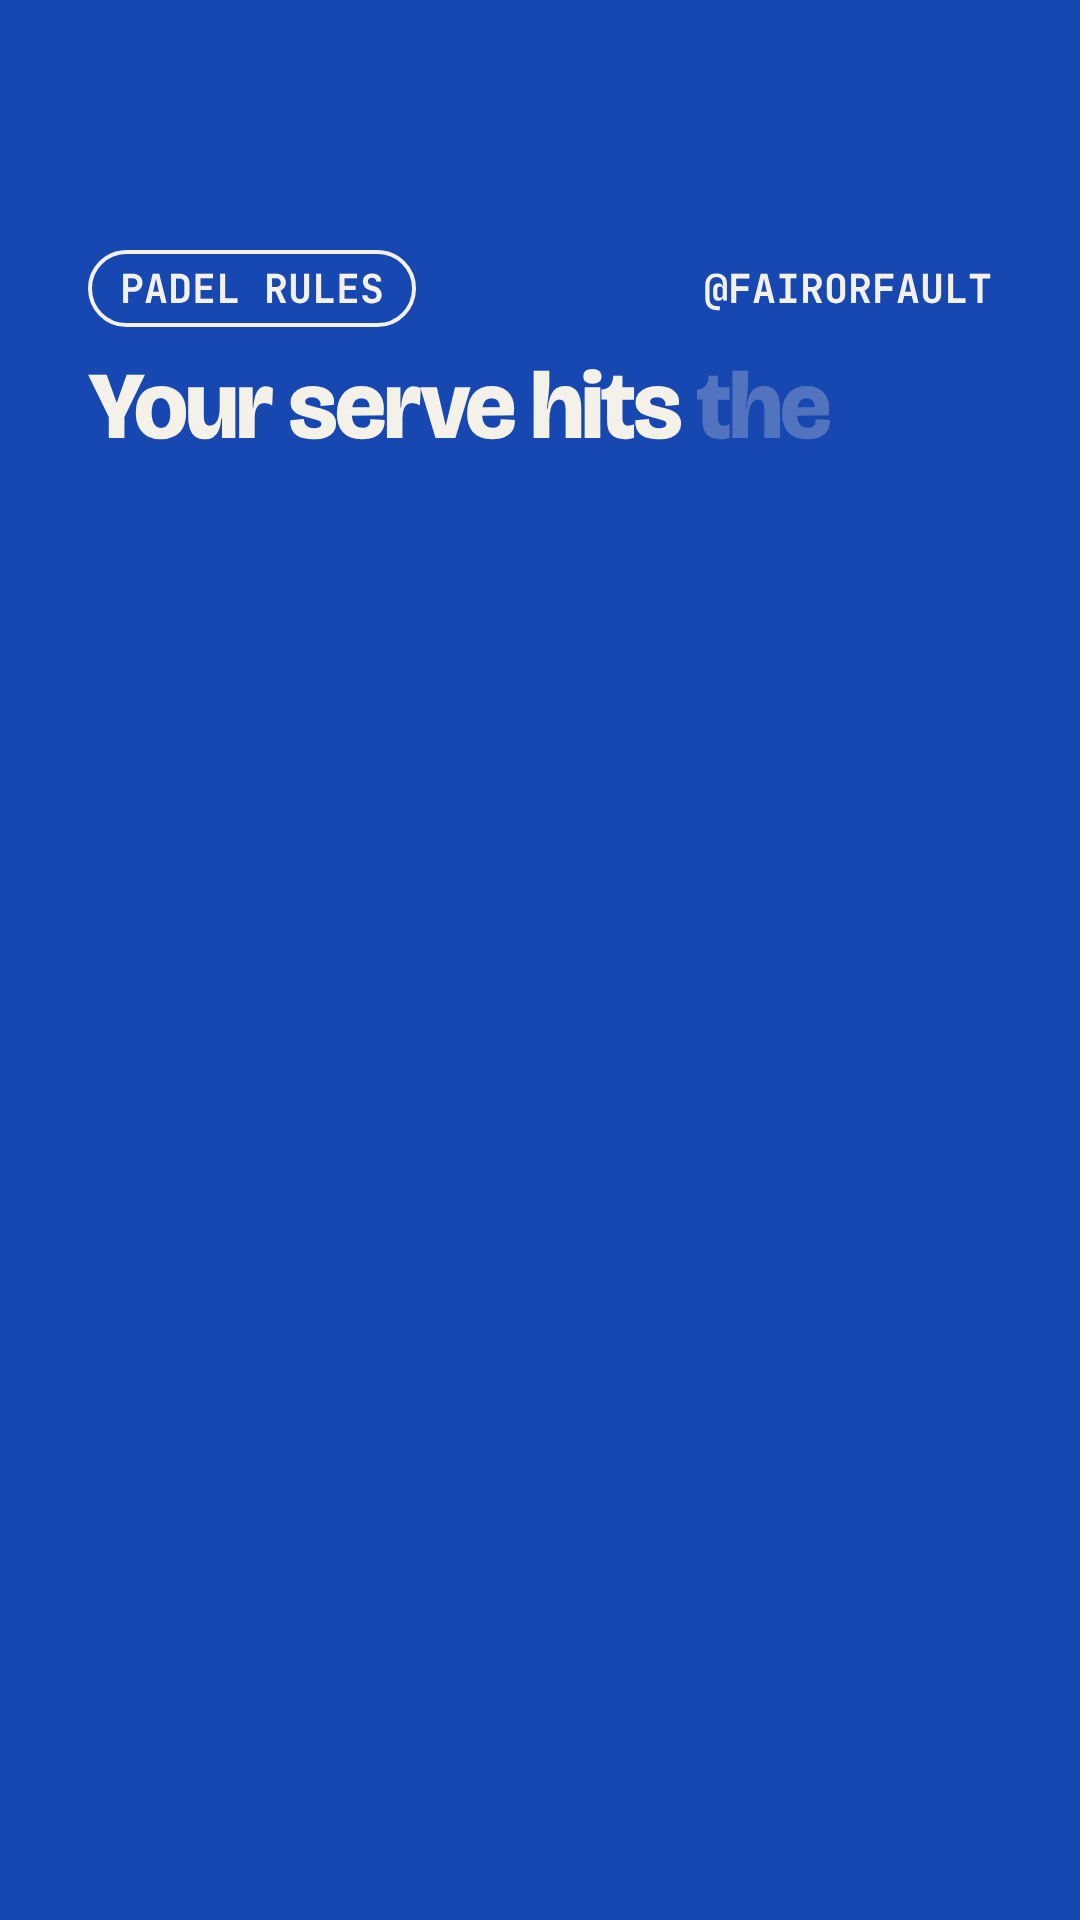
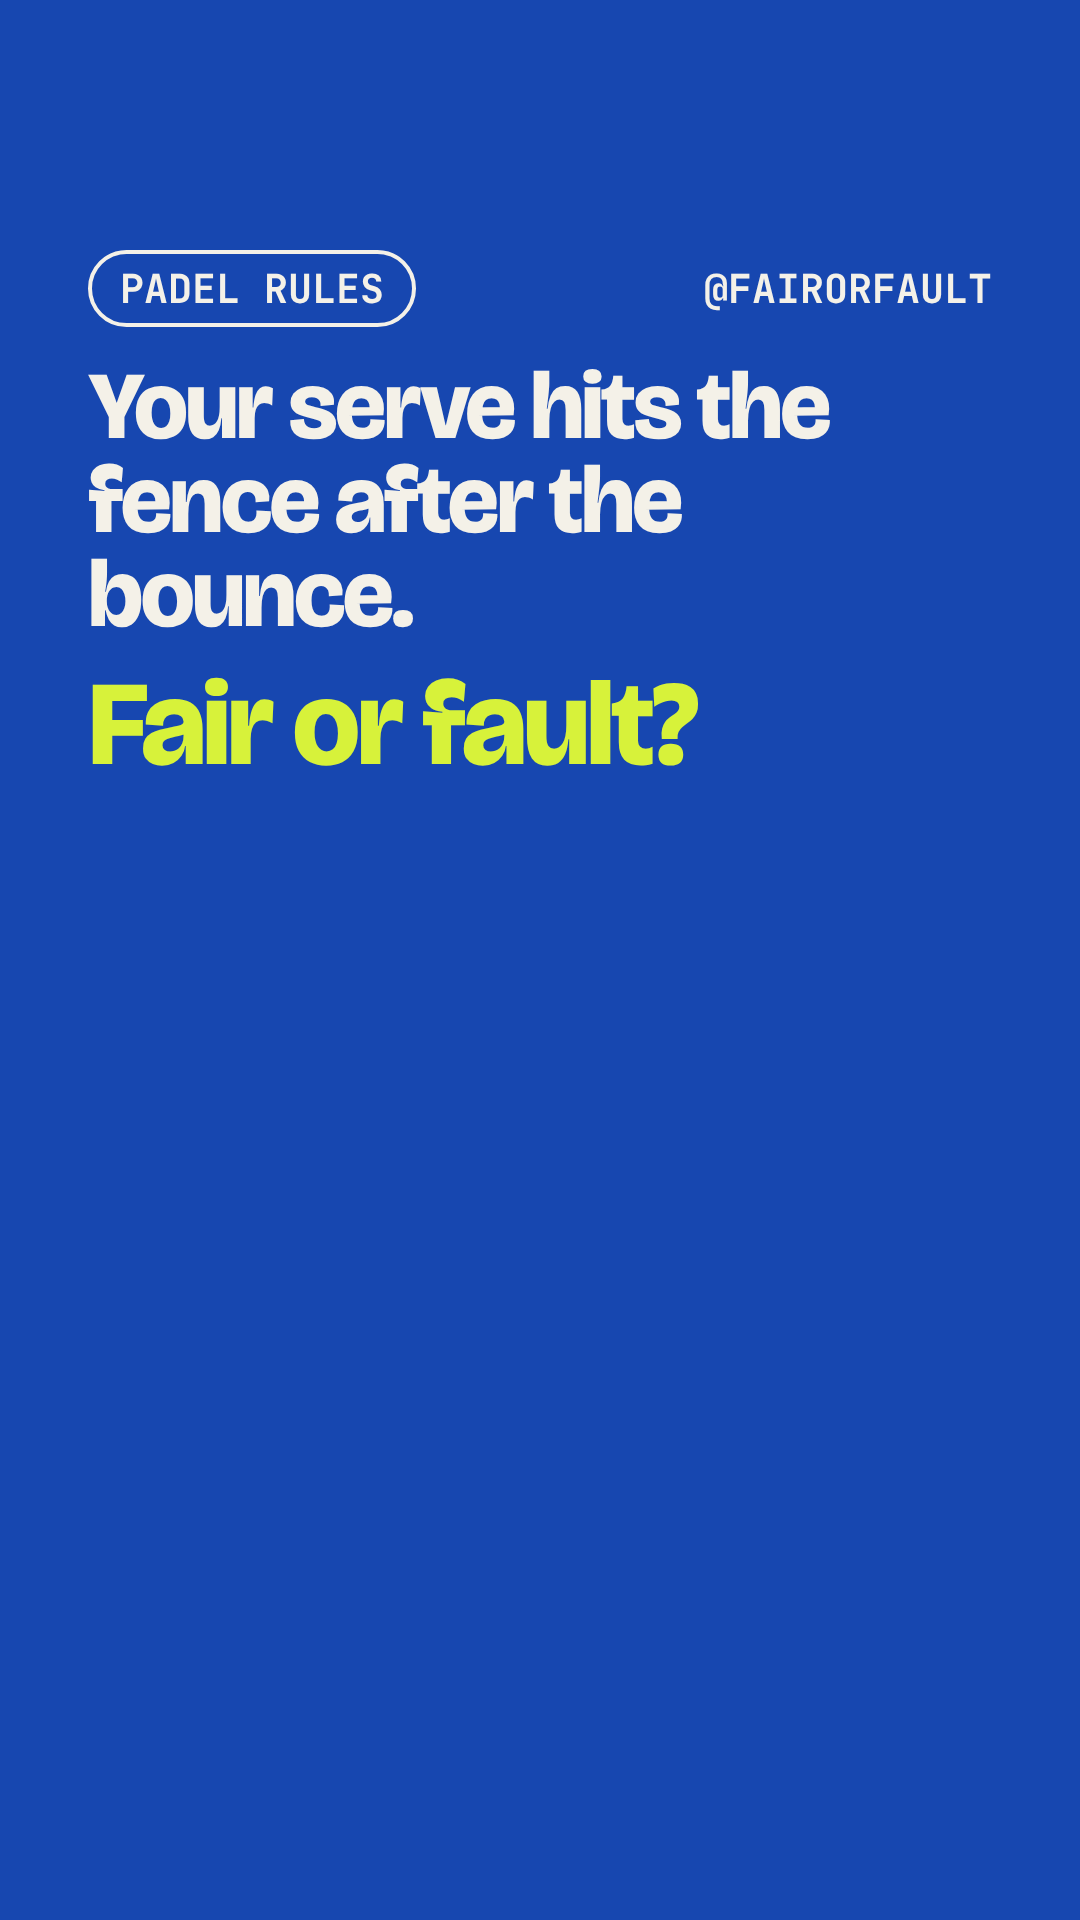
Reel cover shows the full question
Claude-Session: https://claude.ai/code/session_01QkVtpd5pUHv7AHrWCFBuCg

Changed region(s): [[0.0611, 0.2188, 0.6417, 0.4062], [0.6417, 0.1875, 0.7639, 0.25]]

diff --git a/engine/reel.py b/engine/reel.py
@@ -170,7 +170,7 @@ async def render(spec, out):
             for f in range(frames):
                 await pg.evaluate(f"setT({f/FPS})")
                 await pg.screenshot(path=str(tmp / f"f{f:04d}.png"))
-            await pg.evaluate("setT(1.0)")
+            await pg.evaluate("setT(T_READ-0.05)")
             await pg.screenshot(path=str(pathlib.Path(out).with_suffix('.cover.png')))
             await b.close()
         subprocess.run(["ffmpeg", "-y", "-loglevel", "error", "-framerate", str(FPS), "-i", str(tmp / "f%04d.png"),
